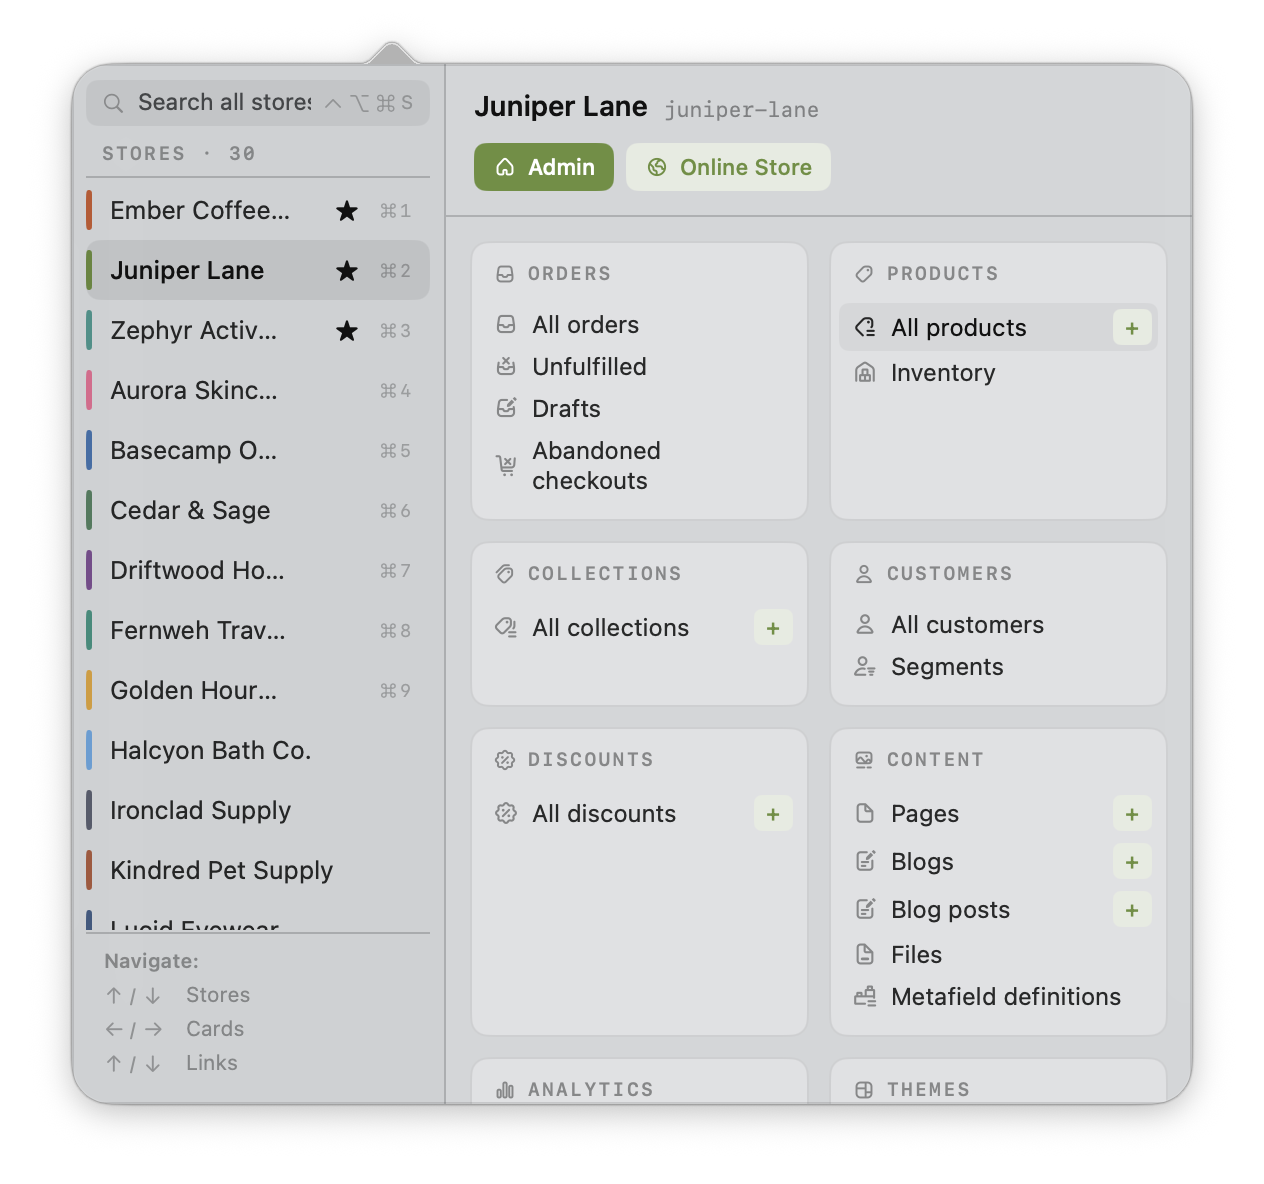
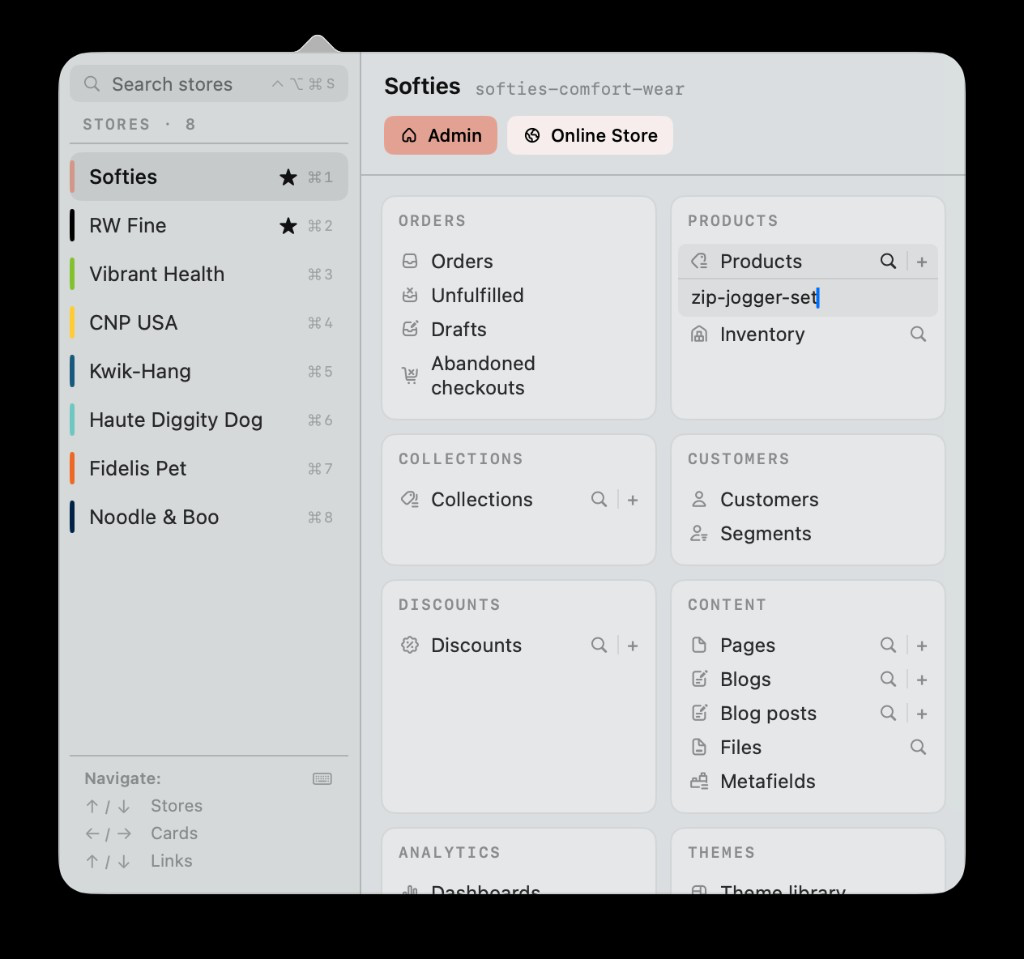
Update README screenshot to the current panel UI.

diff --git a/README.md b/README.md
@@ -15,11 +15,11 @@ A macOS menu bar app for jumping into any Shopify store’s admin panel. Pick a 
 
 Header row plus one store per line. Color is hex without `#`.
 
-| Display Name | Domain | Color |
-| --- | --- | --- |
-| Acme Coffee | acme-coffee.myshopify.com | 1f6f4a |
+| Display Name         | Domain                             | Color  |
+| -------------------- | ---------------------------------- | ------ |
+| Acme Coffee          | acme-coffee.myshopify.com          | 1f6f4a |
 | Northwind Outfitters | northwind-outfitters.myshopify.com | c07a2c |
-| Brightleaf | brightleaf-studio.myshopify.com | 3a6ea8 |
+| Brightleaf           | brightleaf-studio.myshopify.com    | 3a6ea8 |
 
 ```csv
 # stores.csv
@@ -28,50 +28,16 @@ Acme Coffee,acme-coffee.myshopify.com,1f6f4a
 Northwind Outfitters,northwind-outfitters.myshopify.com,c07a2c
 Brightleaf,brightleaf-studio.myshopify.com,3a6ea8
 ```
+
 ## Download
 
 **[Download the latest release](https://github.com/nuotsu/storefront-macos-menubar/releases/latest/download/Storefront.dmg)** (macOS 14+)
 
-Releases are Developer ID–signed and notarized. Drag `Storefront.app` into Applications and open it.
-
-If an older build is blocked: **System Settings → Privacy & Security → Open Anyway**.
-
-## Requirements
+### Requirements
 
 - macOS 14.0+
 - Xcode 16+
 - [XcodeGen](https://github.com/yonaskolb/XcodeGen) (`brew install xcodegen`)
-
-## Building
-
-The `.xcodeproj` is generated, not checked in. After cloning:
-
-```sh
-xcodegen generate
-open Storefront.xcodeproj
-```
-
-Re-run `xcodegen generate` any time `project.yml` changes.
-
-### Signing & release
-
-1. Xcode → Settings → Accounts → **Manage Certificates** → add **Developer ID Application**.
-2. Copy `Config/Signing.local.xcconfig.example` → `Config/Signing.local.xcconfig`, set `DEVELOPMENT_TEAM`, then `xcodegen generate`.
-3. One-time notarization login (needs an [app-specific password](https://appleid.apple.com)):
-
-```sh
-xcrun notarytool store-credentials storefront-notary
-# Apple ID, app-specific password, Team ID
-```
-
-4. Build Release, then:
-
-```sh
-brew install create-dmg
-./scripts/release-dmg.sh /path/to/Storefront.app
-```
-
-Upload `dist/Storefront.dmg` to GitHub Releases. Skip notarization with `SKIP_NOTARIZE=1`.
 
 ## License
 
